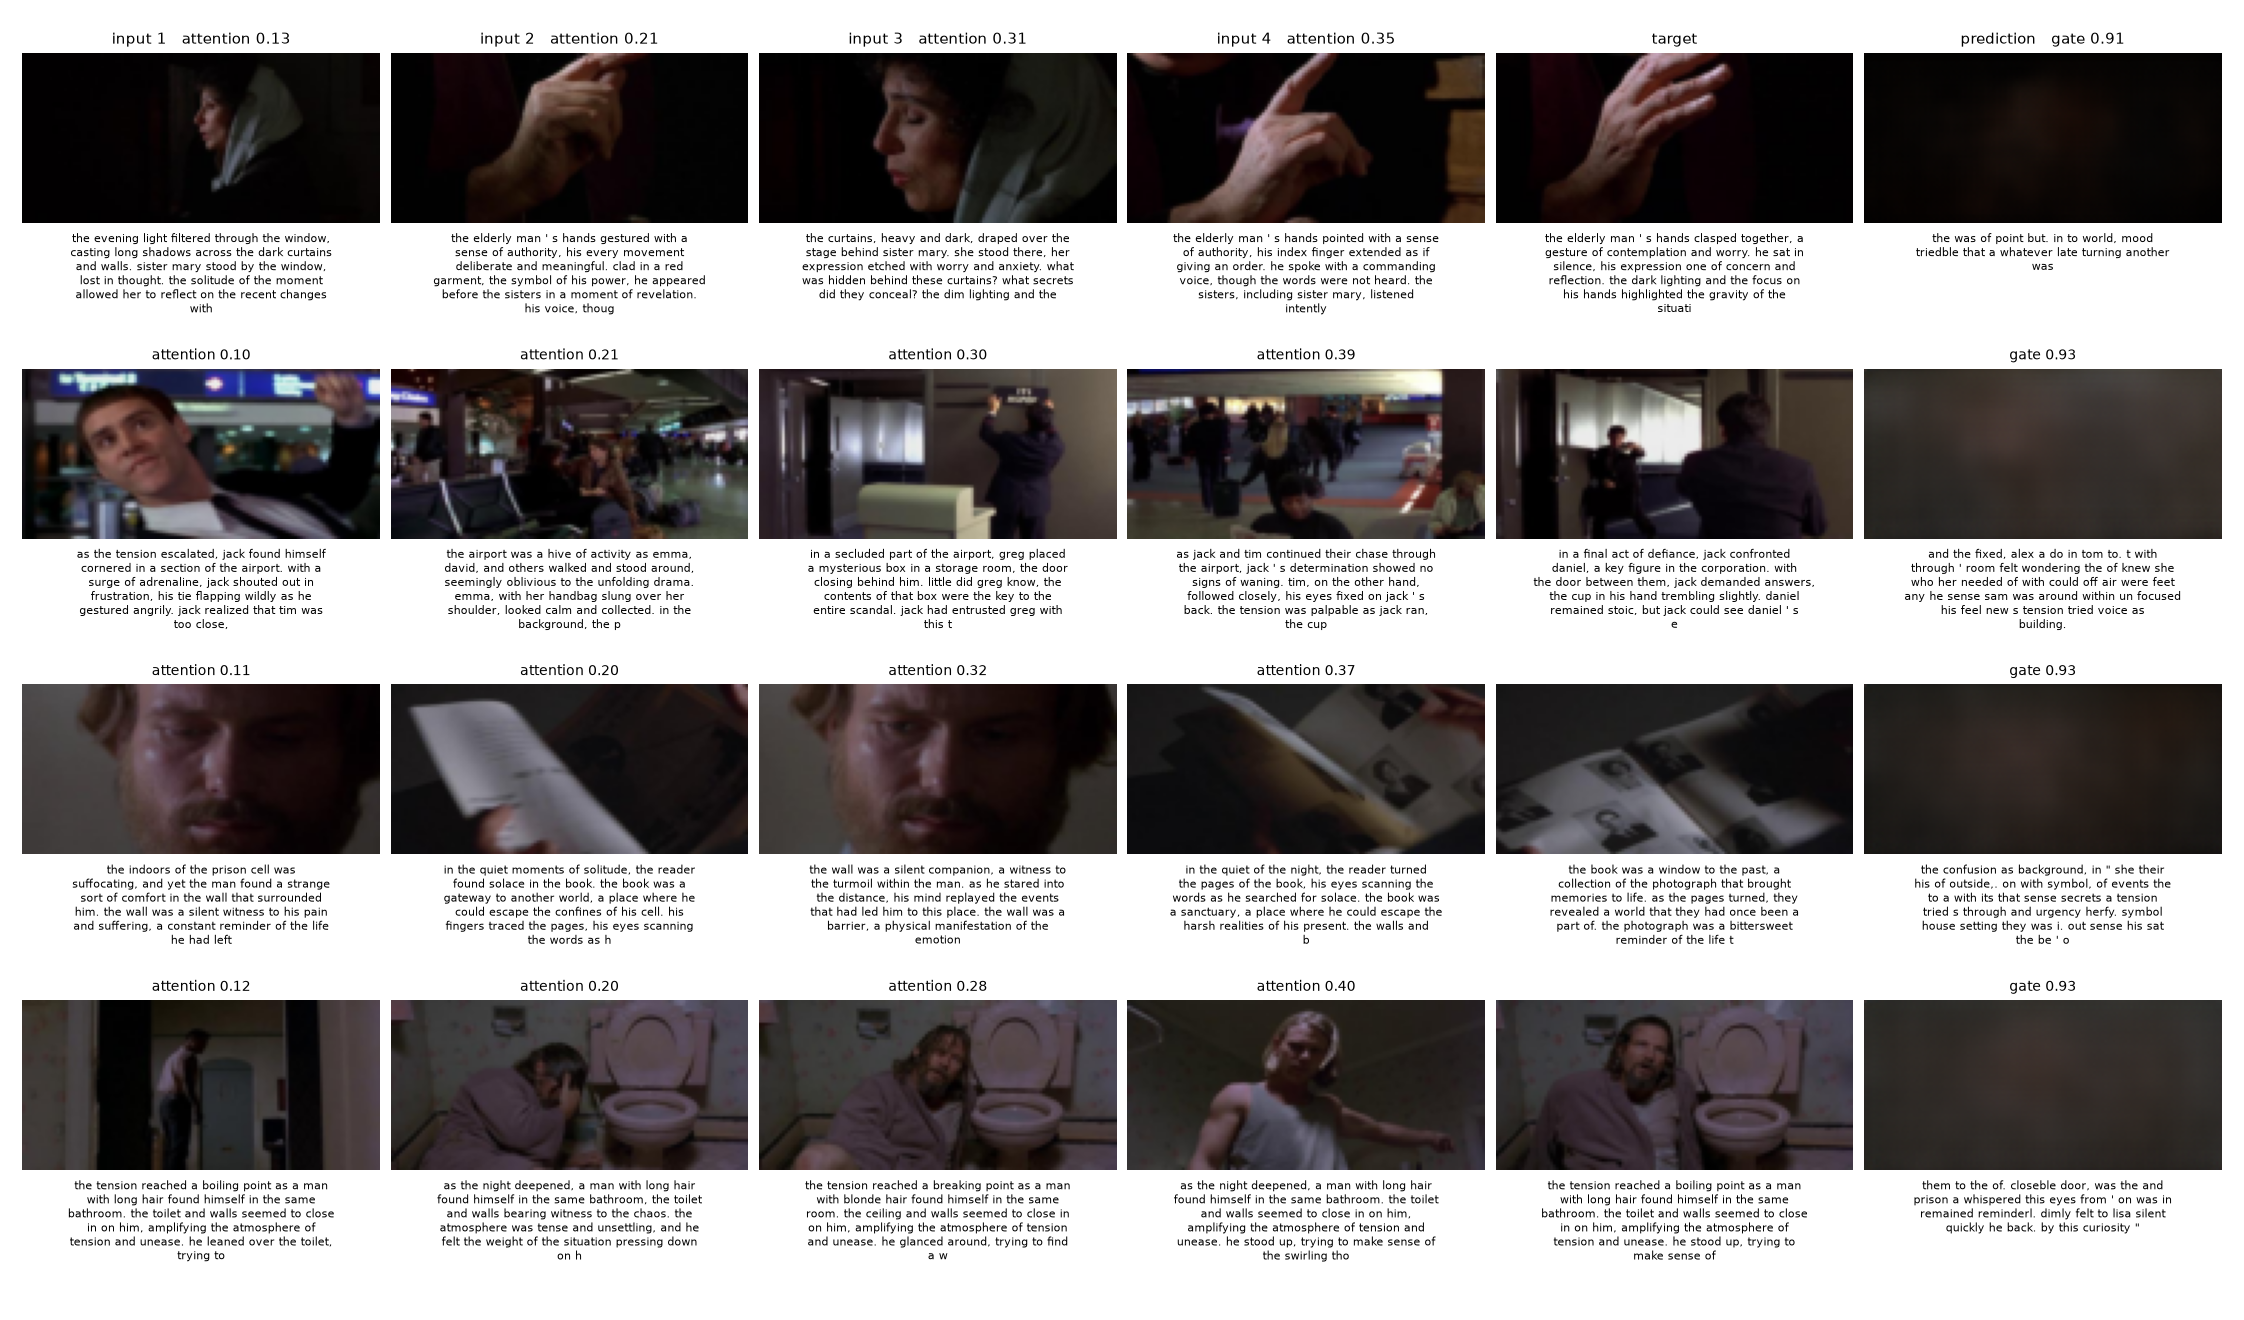
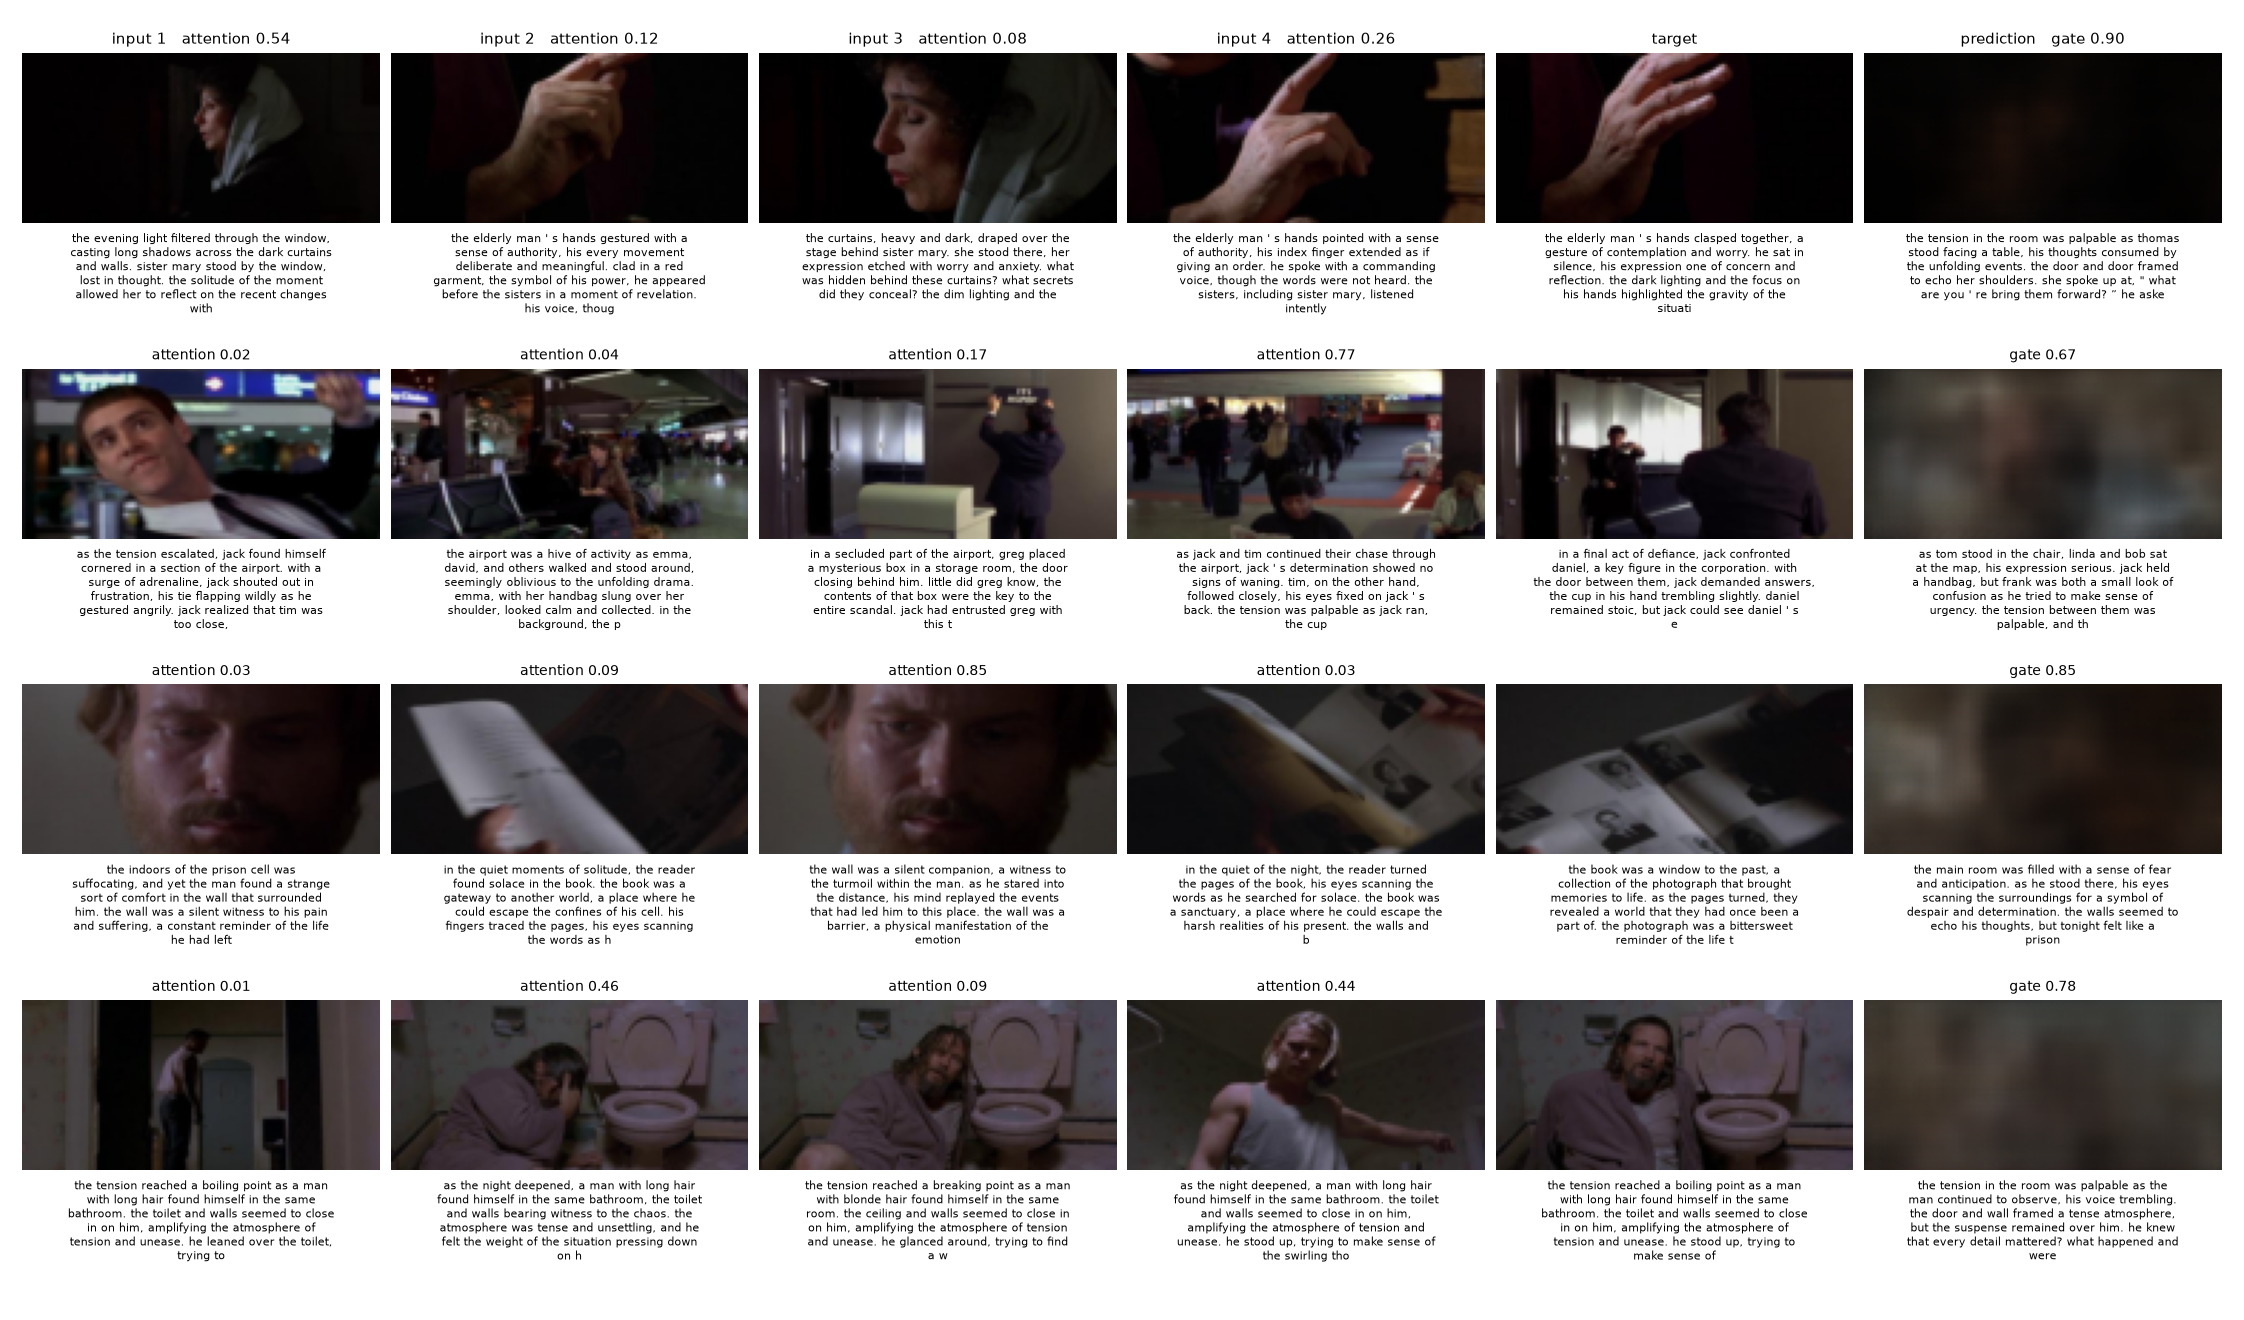
Select checkpoints on validation retrieval; stage C 30-epoch figure from the last epoch

diff --git a/v2/train.py b/v2/train.py
@@ -218,15 +218,18 @@ def main() -> None:
         print(f"epoch {epoch + 1:2d}/{args.epochs} ({time.time() - t0:.0f}s)  train " +
               "  ".join(f"{k} {v / (b + 1):.4f}" for k, v in sums.items()), flush=True)
         val = evaluate(model, tr_all, s_va, t_va, args.text_encoder, tok.pad_token_id, f"val e{epoch + 1}")
-        if val["img_L1"] < best_val:
-            best_val, best_epoch = val["img_L1"], epoch + 1
+        # checkpoint selection on retrieval (text + image latent), not on image L1: the pixel head
+        # overfits from epoch 1 while the other heads are still untrained (ASSESSMENT.md 10c)
+        score = -(val["text_R@10"] + val["latent_R@10"])
+        if score < best_val:
+            best_val, best_epoch = score, epoch + 1
             best_state = {k: v.detach().clone() for k, v in model.state_dict().items()}
 
     name = f"stage{args.stage}_{args.text_encoder}{args.tag}"
     res_last = evaluate(model, te, s_te, t_te, args.text_encoder, tok.pad_token_id, "TEST last epoch")
     torch.save(model.state_dict(), OUT / f"predictor_{name}_last.pt")
     model.load_state_dict(best_state)
-    res = evaluate(model, te, s_te, t_te, args.text_encoder, tok.pad_token_id, f"TEST best val img_L1 (epoch {best_epoch})")
+    res = evaluate(model, te, s_te, t_te, args.text_encoder, tok.pad_token_id, f"TEST best val retrieval (epoch {best_epoch})")
     torch.save(model.state_dict(), OUT / f"predictor_{name}.pt")
     make_figure(model, te, tok, args.text_encoder, OUT / f"predictions_{name}.png", sample=args.stage in ("B", "C"))
     print("TEST summary:", {k: round(v, 4) for k, v in res.items()})
